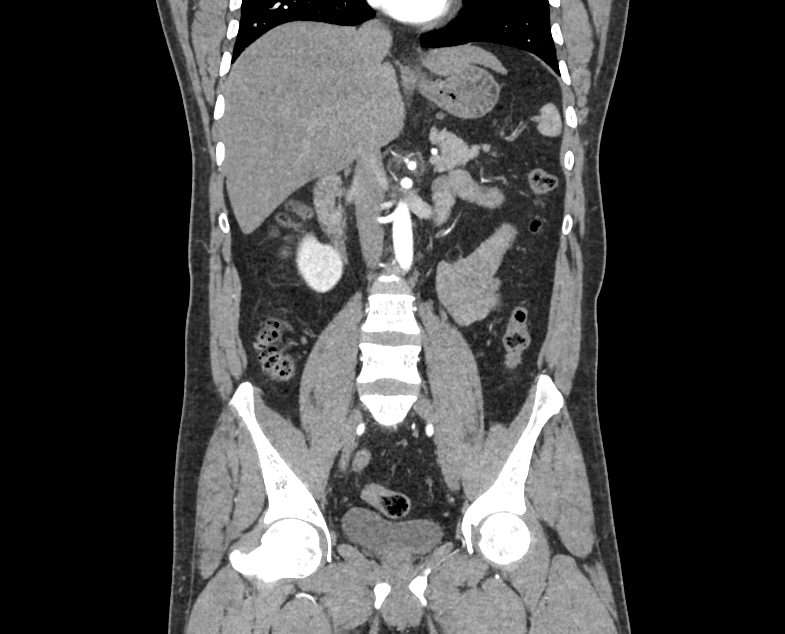
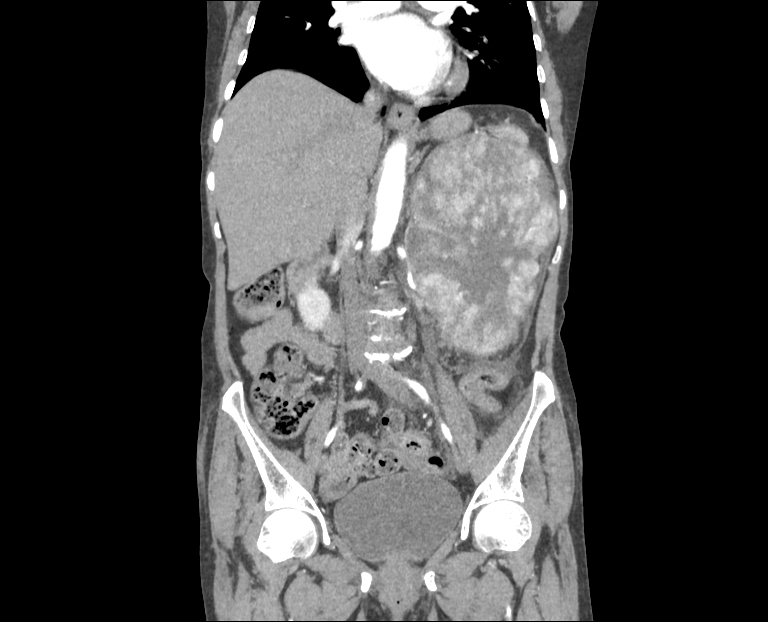
project pipeline completed

diff --git a/app.py b/app.py
@@ -46,6 +46,5 @@ def predictRoute():
 
 if __name__ == "__main__":
     clApp = ClientApp()
-    app.run(debug=True)
-
-    #app.run(host='0.0.0.0', port=8080) #for AWS
+    # app.run(debug=True)
+    app.run(host='0.0.0.0', port=8080) #for AWS
